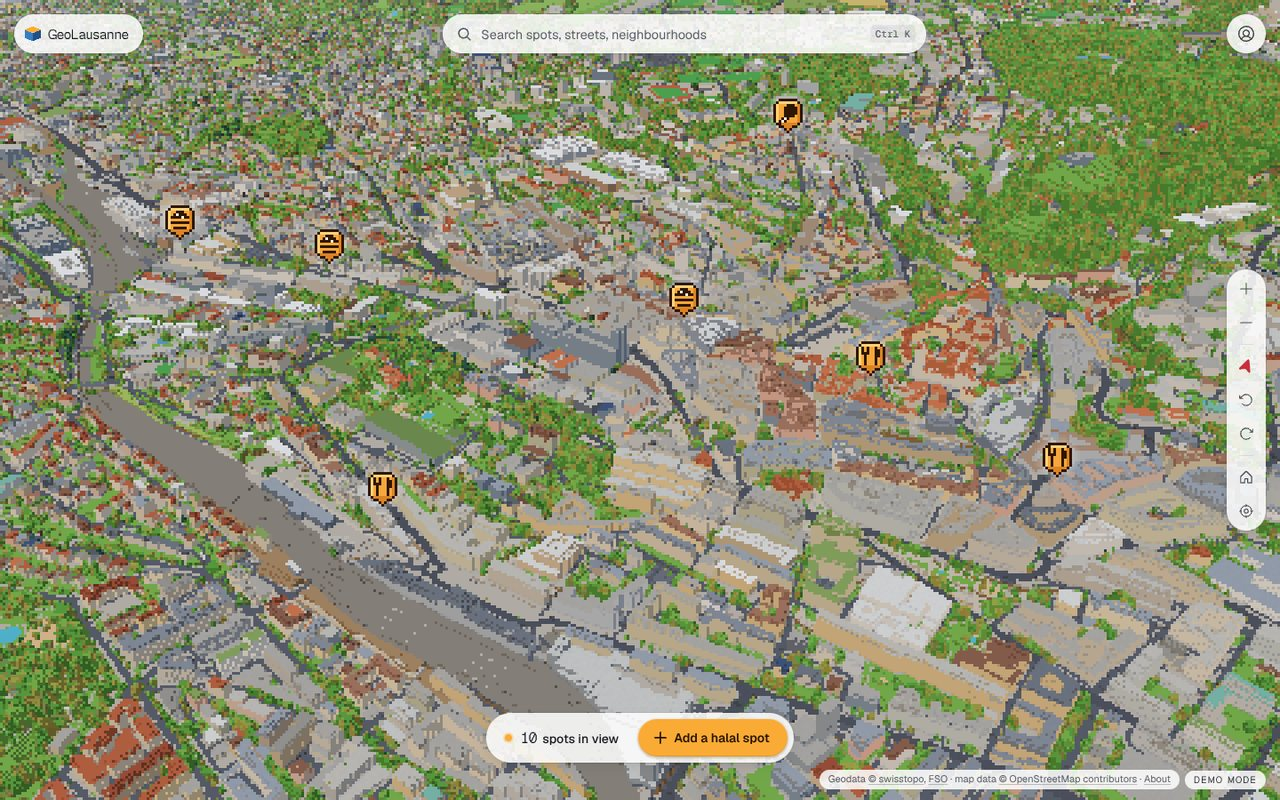
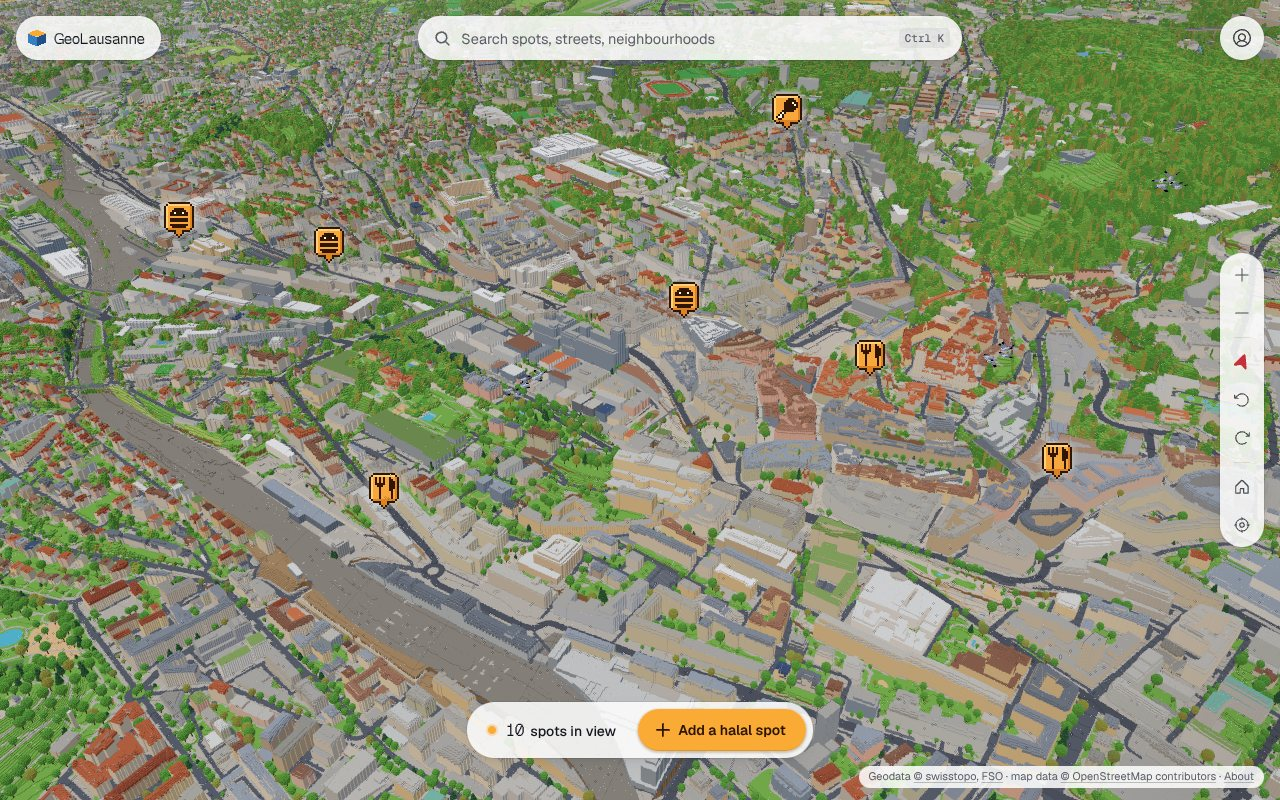
docs: the README for the public repository
Describes the app as it is today: the whole agglomeration (16
municipalities, 10 540 tiles of 1 to 8 m voxels), the fine, sharp and
large pixels, the city's life, the community rules, search, moderation,
sign-in, accessibility and privacy; a quick start on the published city,
how to run your own, how it works, the repository, the documentation,
the tests, contributing and the data licences. New screenshots of the
current interface in the default fine pixels.

Also brings the database README up to date (85 pgTAP assertions in 4
files, the hardening migration), mentions .env.development in the web
app's README, and drops the "bundled Flon tiles" note at the top of
.env.example now that bun dev loads the published city.

diff --git a/README.md b/README.md
@@ -1,82 +1,140 @@
 # GeoLausanne
 
-A voxelised 3D Lausanne where the community maps **halal food**: explore the
-whole city block by block, find spots, vote on them (a spot that enough
-people judge wrong is removed), review them and say how you checked the halal
-status.
+[![CI](https://github.com/othmanehousni/geolausanne/actions/workflows/ci.yml/badge.svg)](https://github.com/othmanehousni/geolausanne/actions/workflows/ci.yml)
 
-![The pixel-art voxel city of Lausanne seen from above the lake, with halal spots as small saffron badges](docs/assets/lausanne-overview.jpg)
+A voxel 3D Lausanne where the community maps **halal food**. Explore
+Lausanne and its 15 neighbouring towns block by block, find spots, add the
+ones you know, vote on them (a spot that enough people judge wrong is
+removed), review them and say how you checked the halal status.
 
-* **Real Lausanne, blocky look**: terrain, buildings with their roofs,
-  streets, every tree and the lake of Lausanne and its 15 neighbouring
-  municipalities (Renens, Ecublens, Pully, Epalinges…), built offline from
-  swisstopo open data, the federal building register and OpenStreetMap into a
-  streamed quadtree of 10 540 tiles (1–8 m voxels). Roofs take their colour
-  from the aerial photo, facades from their construction period, all drawn as
-  pixel art under Lausanne's real sky.
-* **A living city**: spots are pixel-art badges showing their category; the
-  lake's boats run on the real timetable (the Évian shuttles, the paddle
-  steamer to Vevey), gulls circle Ouchy and pigeons the cathedral, clouds
-  drift, the sun follows Lausanne's clock and night lights the windows.
-* **A calm interface over it** ("Diorama"): islands and a dock in warm paper
-  and ink, Geist with pixel accents, panels that keep the city in view (the
-  map recentres beside them), small motions that confirm what changed.
-* **Community trust, not certification**: votes measure trust in a listing;
-  only a moderator-checked certificate is shown as verified.
-* **Accessible**: WCAG 2.2 AA target, keyboard model for the 3D map with
-  spoken feedback, a list alternative, a Reduce motion switch, forced-colour
-  support, Base UI primitives, axe checks in CI.
-* **Private**: no tracking, pseudonymous names, location stays on the device.
-* **Free to run**: Vercel, Cloudflare Pages and Supabase free tiers.
-* French and English, light and dark (night) modes.
+![Lausanne as a voxel city, looking north over the railway and the Flon towards the old town, with halal spots as small saffron badges](docs/assets/lausanne-overview.jpg)
 
-![Phone views: the city with its badges, the list of spots in view, and a spot's panel over the map](docs/assets/phone-views.jpg)
+## What it does
+
+* **The real city, in voxels.** Lausanne and its 15 neighbouring
+  municipalities (Renens, Ecublens and the EPFL, Pully, Epalinges…): the
+  terrain, every building with its roof, the streets, the trees and the
+  lake, built from swisstopo open data, the federal building register and
+  OpenStreetMap into 10 540 streamed tiles of 1 to 8 m voxels. Roofs take
+  their colour from the aerial photo, facades from the building's age and
+  type.
+* **Fine, sharp or retro pixels.** The city is drawn with fine, antialiased
+  pixels; the account menu switches to *Sharp* (the screen's full
+  resolution) or *Large*, the retro pixel-art look.
+* **A living city.** By day the sun stands where it stands over Lausanne
+  right now; the dark theme is a moonlit night with lit windows. Boats keep
+  to a schedule on the lake (the shuttles to Évian, a paddle steamer to
+  Vevey), gulls circle Ouchy, pigeons the cathedral, and clouds drift by.
+* **Halal spots, by the community.** Spots are pixel-art badges showing
+  their category. Add one from the map, vote, write a review that says how
+  you checked (saw the certificate, asked the staff…), report problems. A
+  spot with at least 5 downvotes and a score of −5 or lower is removed, and
+  moderators can restore it for 14 days. Votes measure trust in a listing:
+  only a certificate checked by a moderator is shown as verified.
+* **Search** for spots and for addresses and places around Lausanne
+  (swisstopo); a place outside the 3D city says so.
+* **Moderation**: a console for reports and for removed and hidden spots,
+  with a log of every action; moderators can hide reviews, check
+  certificates and suspend members.
+* **No passwords**: sign in with Google or GitHub, and with an e-mail link
+  once an SMTP server is set up.
+* **Accessible**: WCAG 2.2 AA target, a keyboard model for the 3D map with
+  spoken feedback, a list alternative to the map, Reduce motion and
+  forced-colour support; axe checks run in CI.
+* **Private**: no ads or tracking, pseudonymous names, and your position is
+  only used in your browser (unless you place a spot there).
+* French and English, light and dark.
+* **Free to run** on the free plans of Vercel, Cloudflare Pages and
+  Supabase; GitHub Actions build the city and deploy the database.
+
+![Three phone screens: the city with its badges, the list of spots in view, and a spot's panel over the map](docs/assets/phone-views.jpg)
 
 ## Quick start
+
+With [Bun](https://bun.sh) 1.4.2 and Node.js 20.9 or later:
 
 ```bash
 bun install
 bun dev        # http://localhost:3000
 ```
 
-No configuration needed: without a Supabase project the app runs in **demo
-mode** (data in your browser, the Lausanne-Flon demo city, instant sign-in;
-an e-mail starting with `mod` gets the moderator role). Details in
+`bun dev` shows the published city (all 16 towns, streamed from Cloudflare
+Pages, so it needs an internet connection) in **demo mode**: without a
+Supabase project, spots, votes and reviews stay in your browser, seeded with
+the halal places tagged in OpenStreetMap, and signing in with any e-mail
+address is instant (an address starting with `mod` can moderate). Offline,
+put `NEXT_PUBLIC_CITY_BASE_URL=/city/flon` in `apps/web/.env.local` to use
+the small demo city that ships with the code. More in
 [docs/getting-started.md](docs/getting-started.md).
+
+## Run your own
+
+Everything runs on free plans: Supabase (database, sign-in), Cloudflare
+Pages (the city's 349 MB of tiles), Vercel (the web app) and GitHub Actions
+(building the city, applying database migrations, keeping the free database
+awake). [docs/operations/deployment.md](docs/operations/deployment.md) goes
+through it step by step, from empty accounts to a live site.
+
+## How it works
+
+* **The city** is built offline by `geovox`, a Python pipeline: it voxelises
+  terrain, buildings, trees, bridges and land cover from the open data, and
+  writes a quadtree of glTF tiles (meshopt and gzip) plus a low-detail
+  backdrop of the lake and the mountains.
+* **The web app** (Next.js 16, React Three Fiber, three.js) streams those
+  tiles in web workers by screen-space error, under a Base UI and Tailwind
+  interface translated with next-intl.
+* **The backend** is Supabase: PostgreSQL with PostGIS and row-level
+  security, where every write goes through SQL functions that enforce the
+  rules (daily limits, removals, moderation), tested with pgTAP.
 
 ## Repository
 
 | Path | Contents |
 | --- | --- |
-| [`apps/web`](apps/web) | Next.js 16 app: React Three Fiber city, Base UI interface, next-intl |
+| [`apps/web`](apps/web) | the Next.js app: the 3D city, the interface, the data layer |
 | [`packages/geo-types`](packages/geo-types) | LV95/WGS84 transforms, tile maths, manifest schema |
-| [`pipelines/geodata`](pipelines/geodata) | `geovox`, the Python pipeline from geodata to voxel tiles |
+| [`pipelines/geodata`](pipelines/geodata) | `geovox`, the pipeline from open geodata to voxel tiles |
 | [`supabase`](supabase) | database migrations (RLS, RPC API, moderation), seed, pgTAP tests |
 | [`docs`](docs) | architecture, pipeline, decisions, design, operations |
 
 ## Documentation
 
-Everything is in [`docs/`](docs/README.md): an [overview](docs/overview.md)
-with the milestone status, how the [streaming](docs/architecture/streaming-and-lod.md)
-and the [pipeline](docs/pipeline/README.md) work, the [data model](docs/backend/data-model.md),
-27 [decision records](docs/decisions/README.md), the [design system](docs/design/design-system.md)
-and [accessibility](docs/design/accessibility.md) notes, and the
-[deployment](docs/operations/deployment.md) guide.
+Everything is in [`docs/`](docs/README.md): an [overview](docs/overview.md),
+how the [streaming](docs/architecture/streaming-and-lod.md), the
+[rendering](docs/architecture/rendering.md) and the
+[pipeline](docs/pipeline/README.md) work, the
+[data model](docs/backend/data-model.md), 27
+[decision records](docs/decisions/README.md), the
+[design system](docs/design/design-system.md) and
+[accessibility](docs/design/accessibility.md) notes, the
+[deployment](docs/operations/deployment.md) guide and a
+[log of findings](docs/research/findings.md).
 
 ## Tests
 
 ```bash
 bun run typecheck && bun run lint && bun run test     # types, lint, unit tests
 bun run build && bun run test:e2e                     # Playwright + axe
-cd pipelines/geodata && pytest                        # pipeline
+cd pipelines/geodata && pytest                        # the pipeline
 bash scripts/test-db.sh                               # pgTAP (PostgreSQL 16 + PostGIS + pgTAP)
 ```
 
 All of them run in CI on every push.
 
+## Contributing
+
+Issues and pull requests are welcome. Before opening a pull request, run the
+checks above for the parts you changed; [docs/getting-started.md](docs/getting-started.md)
+covers the local setup, including a local Supabase. To add halal places, use
+the app, or tag them `diet:halal=yes` (or `only`) on OpenStreetMap: they
+then join the starting list the next time it is generated.
+
 ## Data and licences
 
 Code: [MIT](LICENSE). Geodata © [swisstopo](https://www.swisstopo.admin.ch)
-(open government data); map data © [OpenStreetMap contributors](https://www.openstreetmap.org/copyright)
-(ODbL). Facts added by the community are published under the ODbL. See
+(open government data); building register © [FSO](https://www.housing-stat.ch/)
+(GWR); map data © [OpenStreetMap contributors](https://www.openstreetmap.org/copyright)
+(ODbL). Facts added by the community are published under the ODbL. Fonts:
+Geist (SIL Open Font License); icons: Phosphor (MIT). See
 [docs/legal/data-licensing.md](docs/legal/data-licensing.md).

diff --git a/supabase/README.md b/supabase/README.md
@@ -6,9 +6,9 @@ row-level security.
 
 | Path | Contents |
 | --- | --- |
-| `migrations/` | extensions, schema, functions (RPC API, triggers), security, cron |
+| `migrations/` | extensions, schema, functions (RPC API, triggers), security, cron, hardening |
 | `seed.sql` | halal places from OpenStreetMap (ODbL), generated by `python -m geovox seed-places` |
-| `tests/` | pgTAP suite (59 assertions) |
+| `tests/` | pgTAP suite (85 assertions in 4 files) |
 | `test-shim/` | minimal `auth` schema and roles to run the suite on plain PostgreSQL |
 | `config.toml` | Supabase CLI configuration for a local stack |
 

diff --git a/apps/web/README.md b/apps/web/README.md
@@ -13,6 +13,9 @@ bun run test:e2e        # Playwright + axe, after a build
 
 Configuration: copy [`.env.example`](.env.example) to `.env.local` (all
 optional; without Supabase the app runs in demo mode).
+[`.env.development`](.env.development) points `bun dev` at the published
+city; production builds use the bundled demo city unless
+`NEXT_PUBLIC_CITY_BASE_URL` says otherwise.
 
 | Path | Contents |
 | --- | --- |
